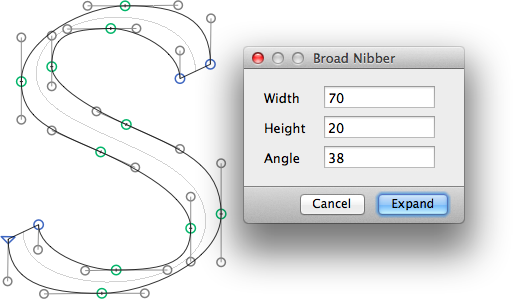
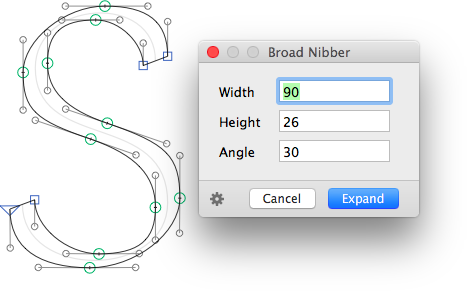
Glyphs 2 Compatibility update
plus gear menu for copying the custom parameter string

Changed region(s): [[0.0, 0.0, 0.9593, 1.0]]

diff --git a/BroadNibber.glyphsFilter/Contents/Resources/BroadNibber.py b/BroadNibber.glyphsFilter/Contents/Resources/BroadNibber.py
@@ -12,7 +12,6 @@ if not path in sys.path:
 	sys.path.append( path )
 
 import GlyphsApp
-GLYPHSAPPVERSION = NSBundle.bundleForClass_(GSMenu).infoDictionary().objectForKey_("CFBundleShortVersionString")
 
 """
 	Using Interface Builder (IB):
@@ -136,11 +135,29 @@ class BroadNibber ( GSFilterPlugin ):
 			self.angleValue = self.setDefaultFloatValue( "angle", 20.0, FontMaster )
 			self.angleField.setFloatValue_( self.angleValue )
 			
+			self.offsetCurveFilter = NSClassFromString("GlyphsFilterOffsetCurve")
+			
 			self.process_( None )
 			return None
 		except Exception as e:
 			self.logToConsole( "setup: %s" % str(e) )
 			# if something goes wrong, you can return an NSError object with details
+	
+	def curtomParameterString( self ):
+		"""Return the custom parameter string. Compatibility method because it is misspelled in the Protocol in early betas of Glyphs 2. Will be removed."""
+		try:
+			return self.customParameterString()
+		except Exception as e:
+			self.logToConsole( "curtomParameterString: %s" % str(e) )
+	
+	def customParameterString( self ):
+		"""Returns the Custom Parameter as string ready for the pasteboard."""
+		try:
+			clipboardString = '(\n    {\n        Filter = "BroadNibber;%.1f;%.1f;%.1f";\n    }\n)\n' % ( self.widthValue, self.heightValue, self.angleValue )
+			return clipboardString
+		except Exception as e:
+			self.logToConsole( "customParameterString: %s" % str(e) )
+			return False
 	
 	def setDefaultFloatValue( self, userDataKey, defaultValue, FontMaster ):
 		"""
@@ -301,12 +318,8 @@ class BroadNibber ( GSFilterPlugin ):
 			self.rotateLayer( thisLayer, -penAngle )
 			
 			# expand:
-			offsetCurveFilter = NSClassFromString("GlyphsFilterOffsetCurve")
-			if GLYPHSAPPVERSION.startswith("1."):
-				offsetCurveFilter.offsetLayer_offsetX_offsetY_makeStroke_position_error_shadow_( thisLayer, offsetX*0.5, offsetY*0.5, True, 0.5, None, None )
-			else:
-				offsetCurveFilter.offsetLayer_offsetX_offsetY_makeStroke_autoStroke_position_error_shadow_( thisLayer, offsetX*0.5, offsetY*0.5, True, False, 0.5, None,None)
-						
+			self.offsetCurveFilter.offsetLayer_offsetX_offsetY_makeStroke_position_error_shadow_( thisLayer, offsetX*0.5, offsetY*0.5, True, 0.5, None, None )
+									
 			# rotate back and tidy up paths:
 			self.rotateLayer( thisLayer, penAngle )
 			thisLayer.cleanUpPaths()
@@ -365,7 +378,7 @@ class BroadNibber ( GSFilterPlugin ):
 				ShadowLayer = ShadowLayers[k]
 				Layer = Layers[k]
 				Layer.setPaths_( NSMutableArray.alloc().initWithArray_copyItems_( ShadowLayer.pyobjc_instanceMethods.paths(), True ) )
-				Layer.setSelection_( NSMutableArray.array() )
+				Layer.clearSelection()
 				if len(ShadowLayer.selection()) > 0 and checkSelection:
 					for i in range(len( ShadowLayer.paths )):
 						currShadowPath = ShadowLayer.paths[i]
